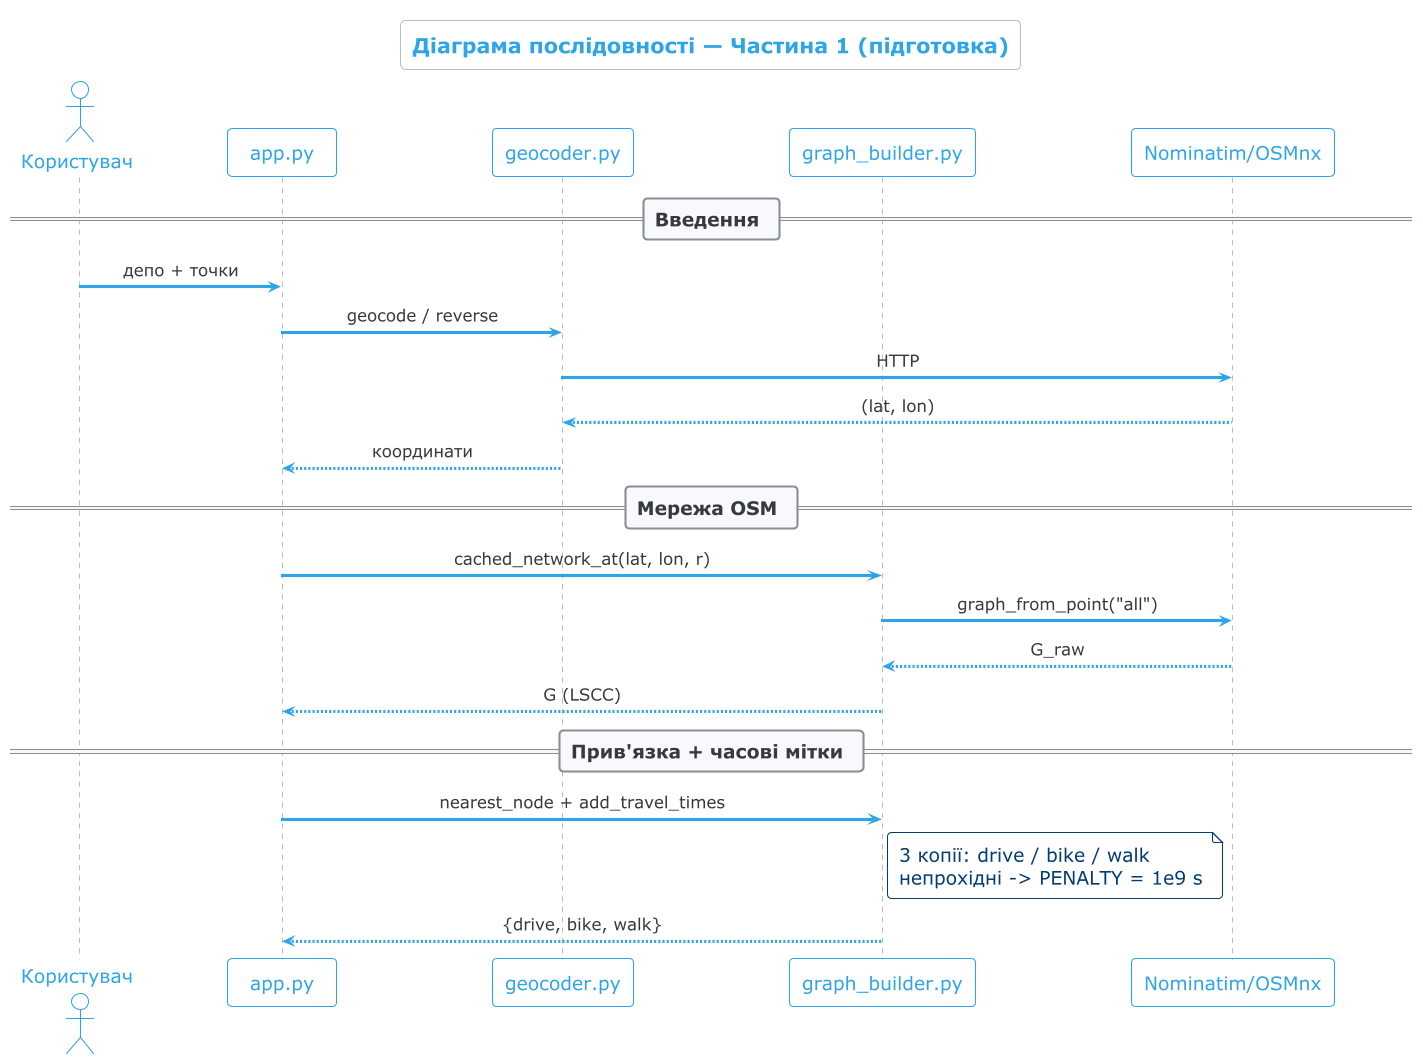
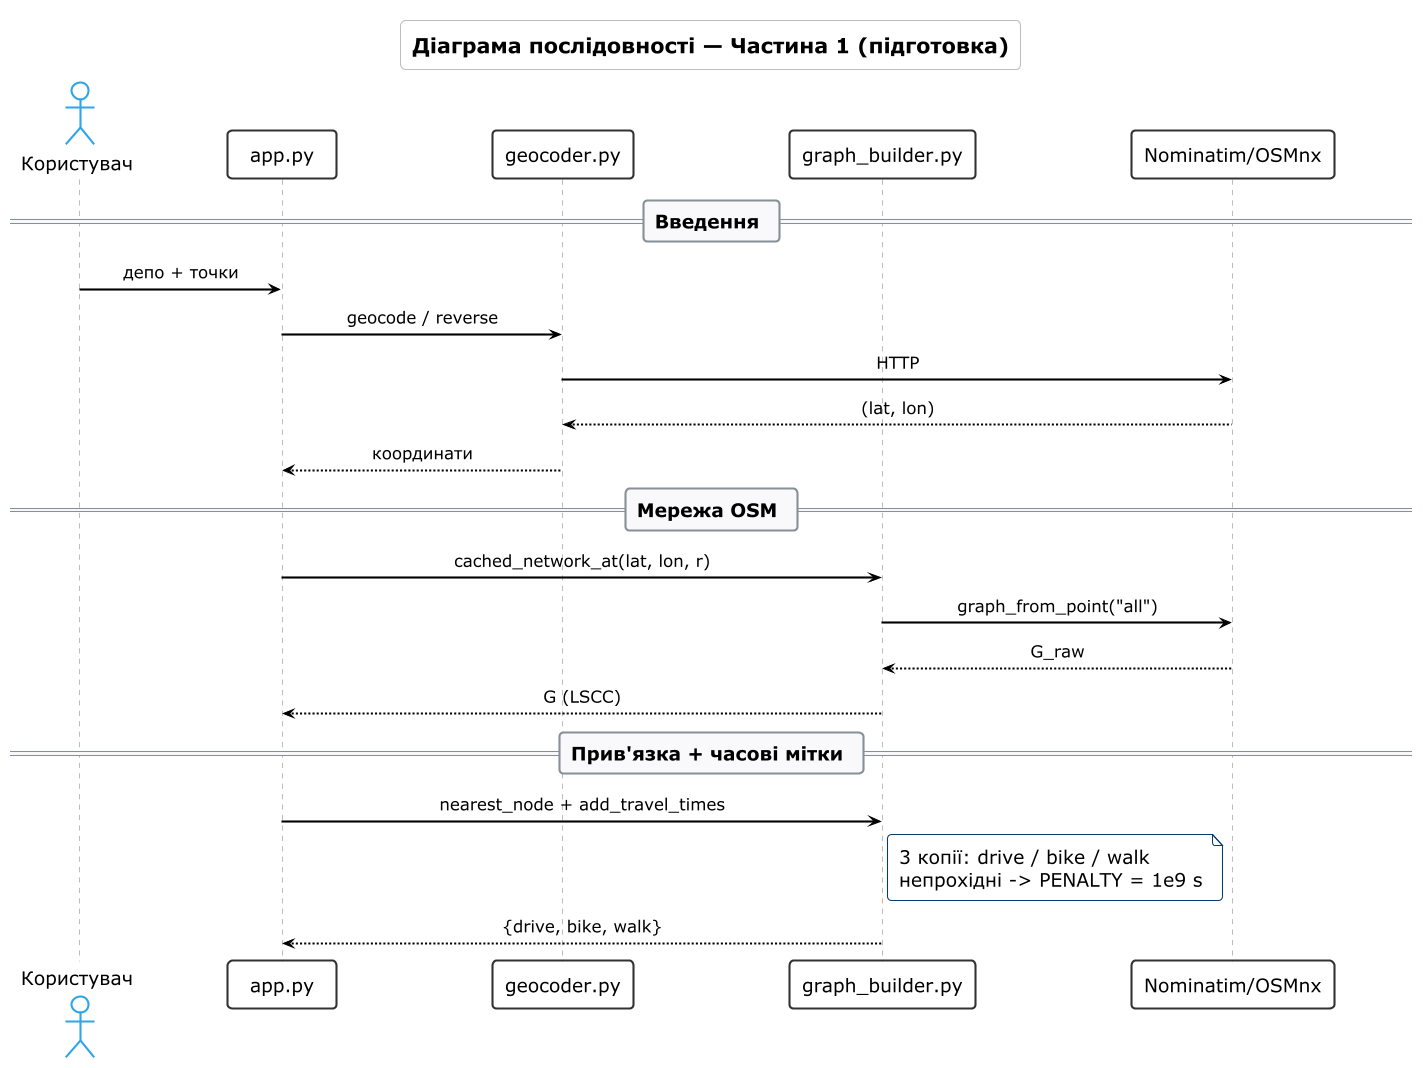
updated zvit

diff --git a/app.py b/app.py
@@ -202,6 +202,22 @@ section[data-testid="stSidebar"] .stButton>button:hover{
 .mono{font-family:'DM Mono',monospace;font-size:.78rem;}
 
 #MainMenu,footer,header{visibility:hidden;}
+
+/* sidebar reopen button (shown when sidebar collapsed) */
+[data-testid="stSidebarCollapsedControl"]{
+  visibility:visible!important;display:flex!important;
+  position:fixed!important;top:14px!important;left:14px!important;z-index:9999!important;
+  background:linear-gradient(135deg,#1d4ed8,#2563eb)!important;
+  border:none!important;border-radius:10px!important;
+  padding:10px 12px!important;
+  box-shadow:0 4px 14px rgba(37,99,235,.45)!important;
+  transition:transform .15s,box-shadow .15s!important;}
+[data-testid="stSidebarCollapsedControl"]:hover{
+  transform:translateY(-1px);
+  box-shadow:0 6px 20px rgba(37,99,235,.6)!important;}
+[data-testid="stSidebarCollapsedControl"] button,
+[data-testid="stSidebarCollapsedControl"] svg{
+  color:white!important;fill:white!important;}
 </style>
 """, unsafe_allow_html=True)
 